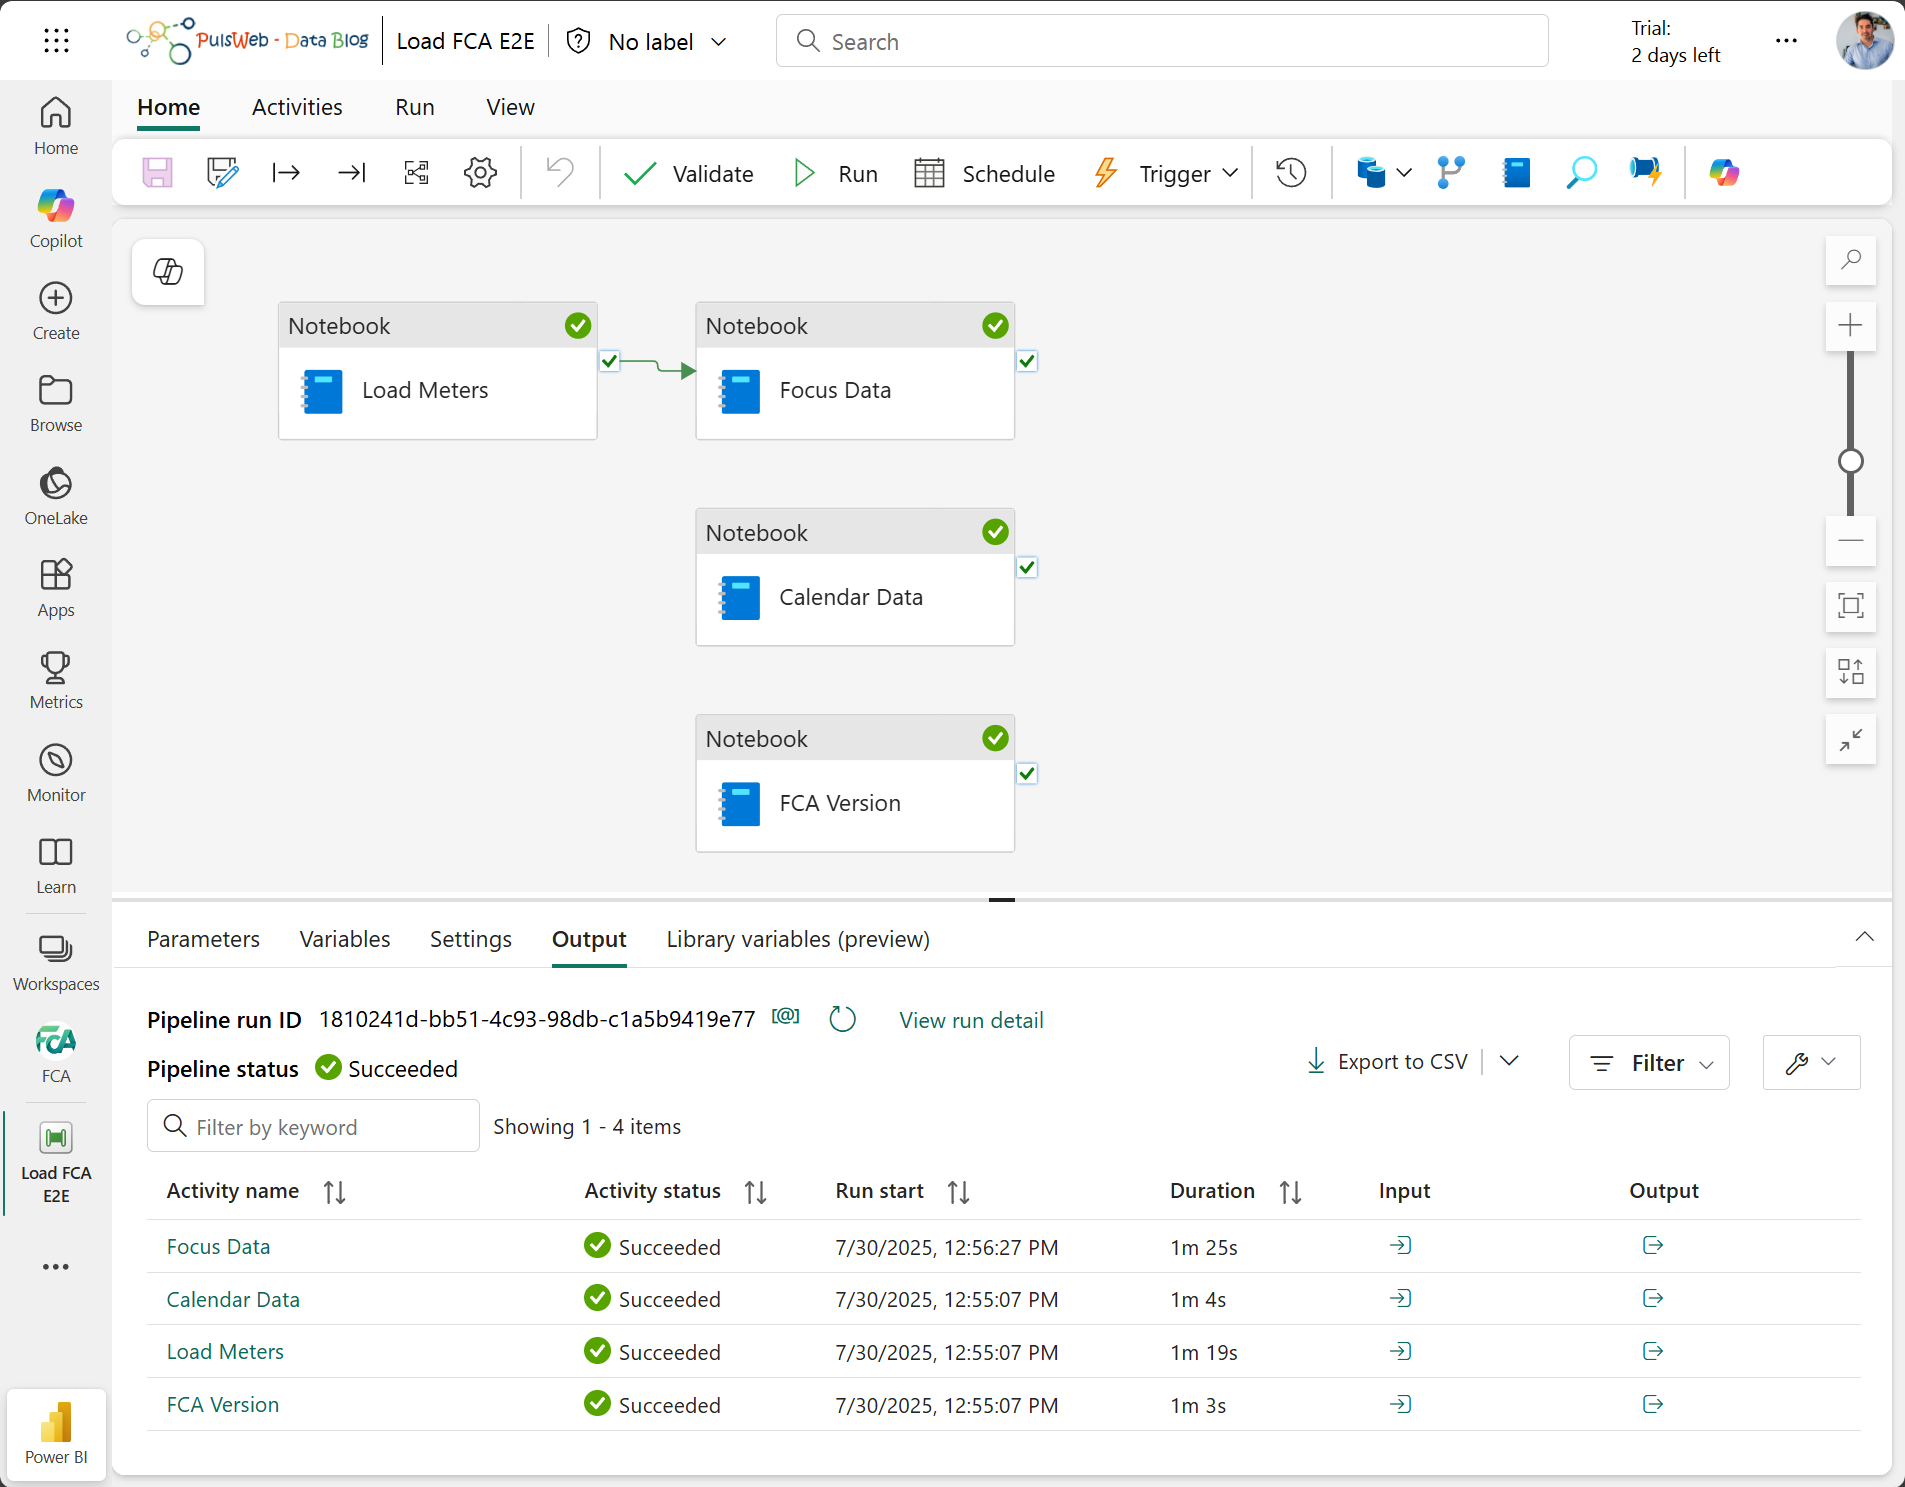
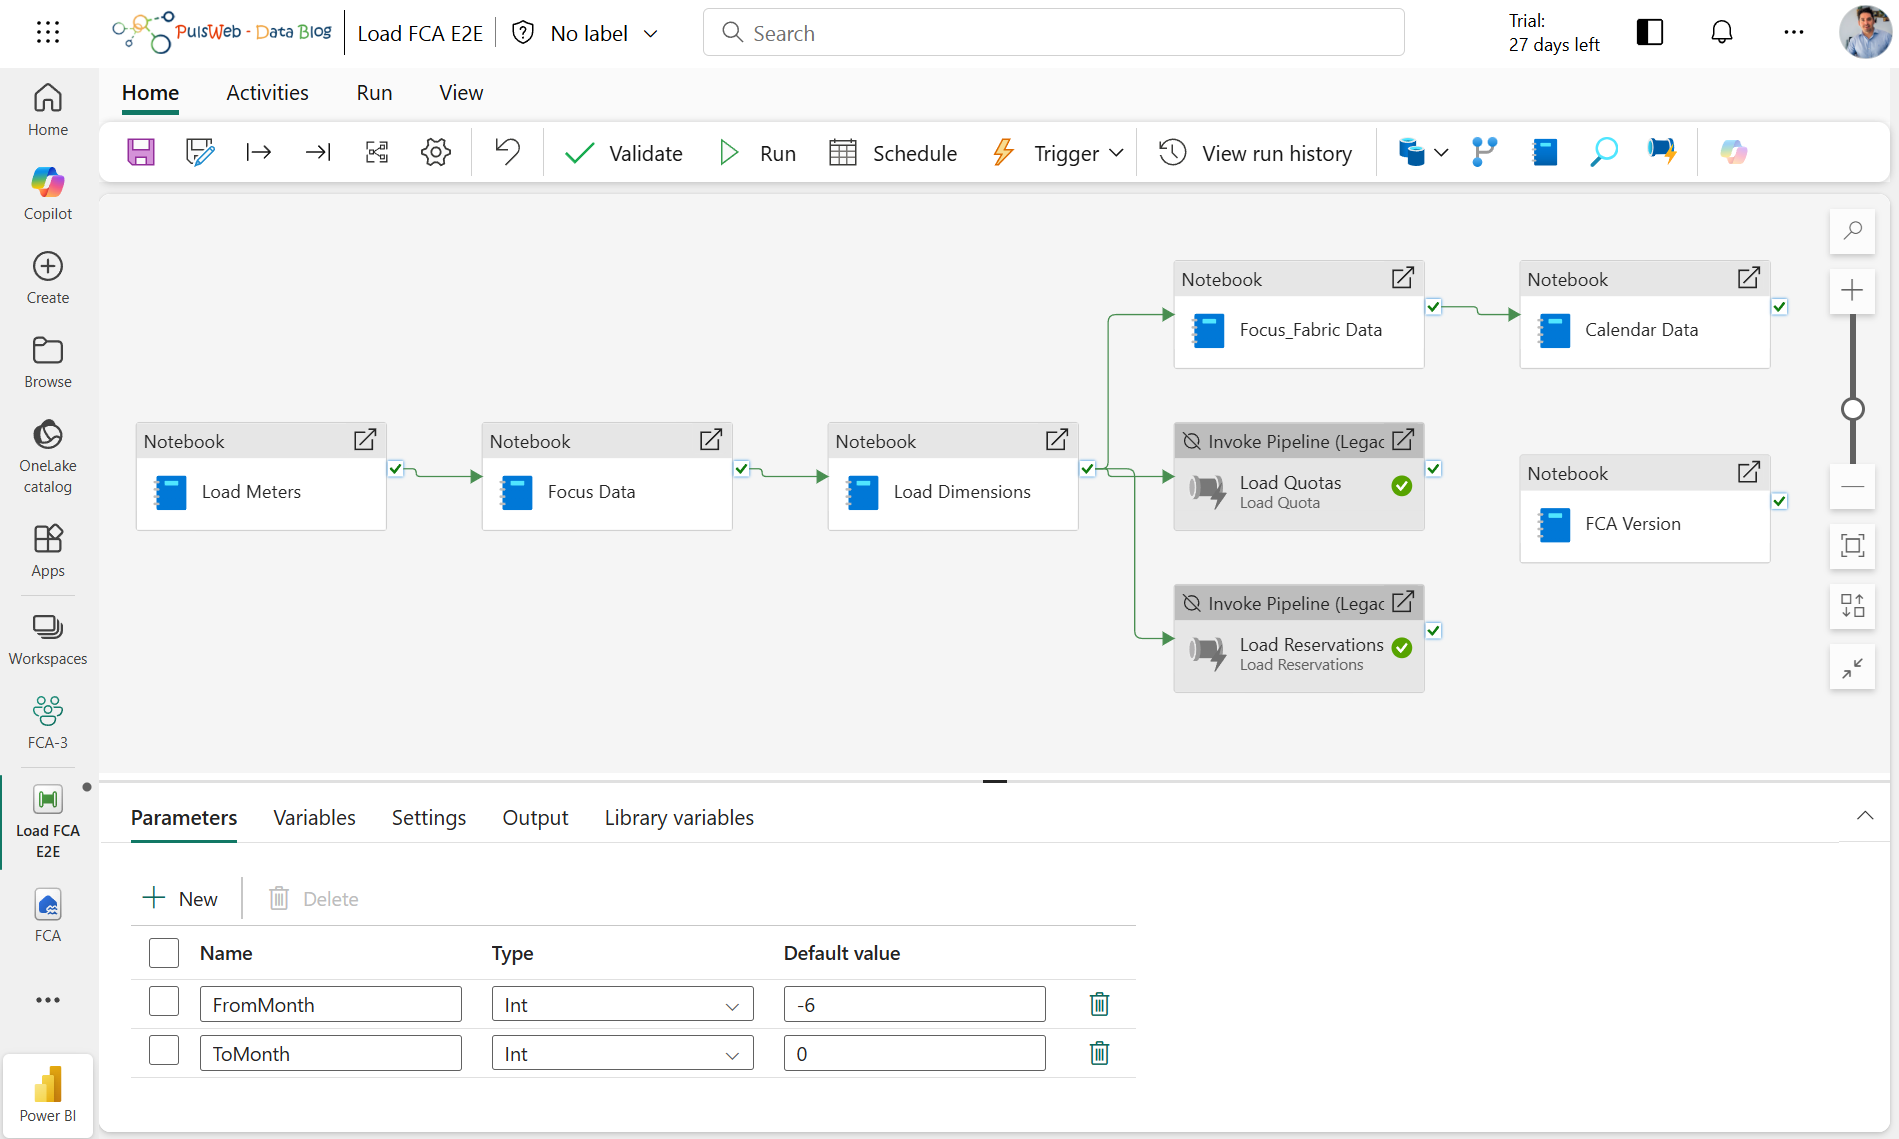
Documentation Updates

diff --git a/monitoring/fabric-cost-analysis/Deploy.md b/monitoring/fabric-cost-analysis/Deploy.md
@@ -91,7 +91,7 @@ Once Data Lake Gen 2 storage account created here are the high levels steps to c
 
 ## 3 - Run the Pipeline
 
-- Open the **Load FCA E2E** Data pipeline and Run the Pipeline once
+- Open the **Load FCA E2E** Data pipeline and Run the Pipeline once (Optional activities are deactivated by default and can be enabled if needed)
 
 ![Load FCA E2E Notebook](./media/Setup_NotebookExecution.png)
 

diff --git a/monitoring/fabric-cost-analysis/Reservation.md b/monitoring/fabric-cost-analysis/Reservation.md
@@ -45,9 +45,10 @@ To create reservation export, on the Azure portal , search for **Cost Management
 
 - Open the **Load FCA E2E** Data pipeline
 - Activate the **...** activity
-- Run the Pipeline once
 
-![Load FCA E2E Notebook](./media/Setup_NotebookExecution.png)
+![Load FCA E2E Notebook](./media/PipelineReservation.png)
+
+- Run the Pipeline once
 
 ## 4 - Open the report
 
